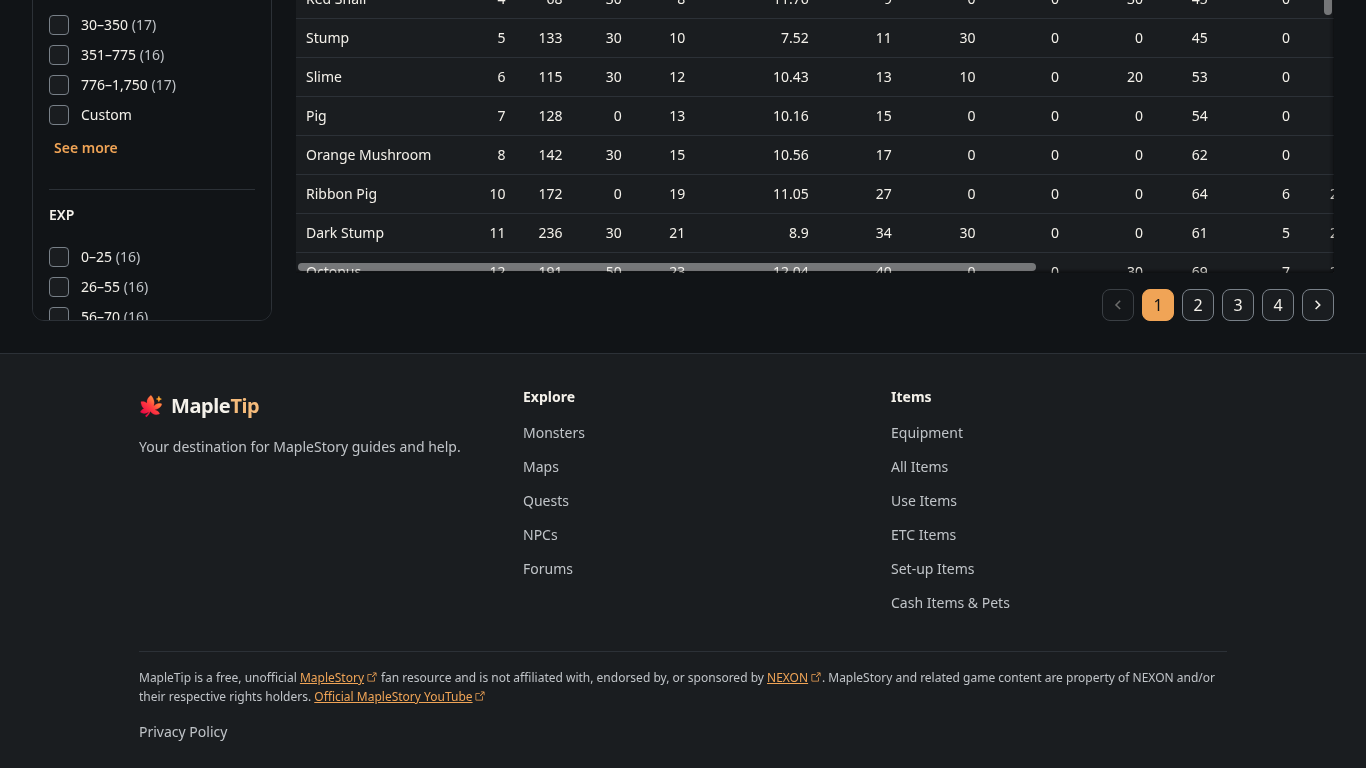
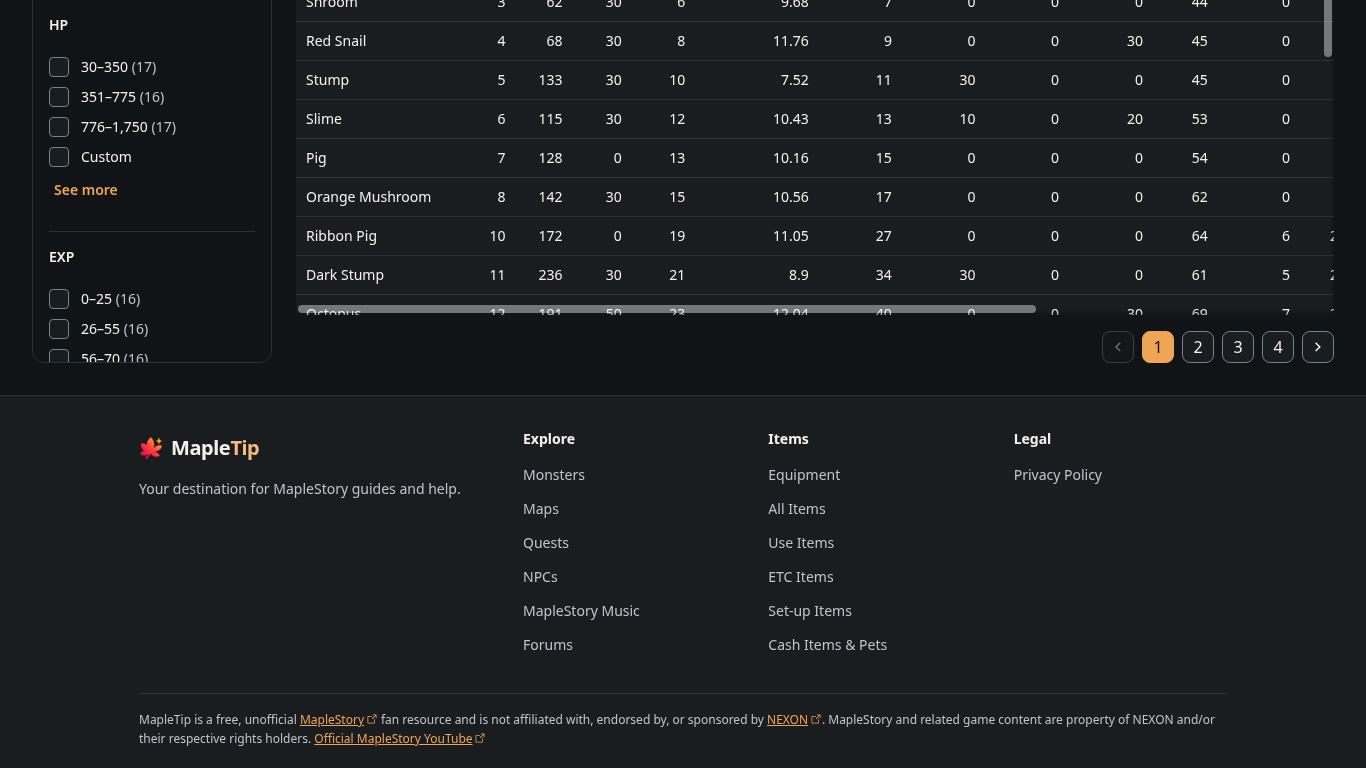
feat(web): add MapleStory Music and Legal footer groups
Restore the legacy MapleStory Music destination in Explore and move Privacy Policy into a dedicated Legal group instead of the attribution paragraph.

diff --git a/apps/web/src/components/AppFooter/AppFooter.tsx b/apps/web/src/components/AppFooter/AppFooter.tsx
@@ -15,6 +15,11 @@ const groups = [
       { id: 'maps', label: 'Maps', href: '/maplestory/maps' },
       { id: 'quests', label: 'Quests', href: '/maplestory/quests' },
       { id: 'npcs', label: 'NPCs', href: '/maplestory/npcs' },
+      {
+        id: 'music',
+        label: 'MapleStory Music',
+        href: '/maplestory/music',
+      },
       { id: 'forums', label: 'Forums', href: 'https://forums.mapletip.com' },
     ],
   },
@@ -37,6 +42,11 @@ const groups = [
         href: '/maplestory/items/cash',
       },
     ],
+  },
+  {
+    id: 'legal',
+    title: 'Legal',
+    links: [{ id: 'privacy', label: 'Privacy Policy', href: '/privacy' }],
   },
 ] satisfies readonly FooterGroup[];
 
@@ -74,26 +84,19 @@ function OfficialLink({
 }
 
 const legal = (
-  <>
-    <p>
-      MapleTip is a free, unofficial{' '}
-      <OfficialLink href={officialMapleStoryUrl}>MapleStory</OfficialLink> fan
-      resource and is not affiliated with, endorsed by, or sponsored by{' '}
-      <span className={classes['nowrap']}>
-        <OfficialLink href={officialNexonUrl}>NEXON</OfficialLink>.
-      </span>{' '}
-      MapleStory and related game content are property of NEXON and/or their
-      respective rights holders.{' '}
-      <OfficialLink href={officialMapleStoryYouTubeUrl}>
-        Official MapleStory YouTube
-      </OfficialLink>
-    </p>
-    <p>
-      <Link className={classes['privacyLink']} to="/privacy">
-        Privacy Policy
-      </Link>
-    </p>
-  </>
+  <p>
+    MapleTip is a free, unofficial{' '}
+    <OfficialLink href={officialMapleStoryUrl}>MapleStory</OfficialLink> fan
+    resource and is not affiliated with, endorsed by, or sponsored by{' '}
+    <span className={classes['nowrap']}>
+      <OfficialLink href={officialNexonUrl}>NEXON</OfficialLink>.
+    </span>{' '}
+    MapleStory and related game content are property of NEXON and/or their
+    respective rights holders.{' '}
+    <OfficialLink href={officialMapleStoryYouTubeUrl}>
+      Official MapleStory YouTube
+    </OfficialLink>
+  </p>
 );
 
 export function AppFooter() {

diff --git a/apps/web/src/components/AppFooter/__tests__/AppFooter.test.tsx b/apps/web/src/components/AppFooter/__tests__/AppFooter.test.tsx
@@ -17,6 +17,7 @@ const expectedNavigation = [
   ['Maps', '/maplestory/maps'],
   ['Quests', '/maplestory/quests'],
   ['NPCs', '/maplestory/npcs'],
+  ['MapleStory Music', '/maplestory/music'],
   ['Forums', 'https://forums.mapletip.com'],
   ['Equipment', '/maplestory/equipment'],
   ['All Items', '/maplestory/items'],
@@ -24,6 +25,7 @@ const expectedNavigation = [
   ['ETC Items', '/maplestory/items/etc'],
   ['Set-up Items', '/maplestory/items/setup'],
   ['Cash Items & Pets', '/maplestory/items/cash'],
+  ['Privacy Policy', '/privacy'],
 ] as const;
 
 async function renderAppFooter() {
@@ -87,7 +89,7 @@ describe('AppFooter', () => {
       within(navigation)
         .getAllByRole('heading', { level: 2 })
         .map((heading) => heading.textContent),
-    ).toEqual(['Explore', 'Items']);
+    ).toEqual(['Explore', 'Items', 'Legal']);
 
     const links = within(navigation).getAllByRole('link');
     expect(links.map((link) => link.textContent)).toEqual(

diff --git a/apps/web/src/components/AppFooter/AppFooter.module.css b/apps/web/src/components/AppFooter/AppFooter.module.css
@@ -33,18 +33,3 @@
   margin-inline-start: 0.15em;
   vertical-align: -0.1em;
 }
-
-.privacyLink {
-  display: inline-block;
-  min-height: 2rem;
-  color: var(--mapletip-color-muted);
-  font-size: var(--mantine-font-size-sm);
-  line-height: 2rem;
-  text-decoration: none;
-  text-underline-offset: 0.18em;
-}
-
-.privacyLink:hover {
-  color: var(--mapletip-color-ink);
-  text-decoration: underline;
-}
